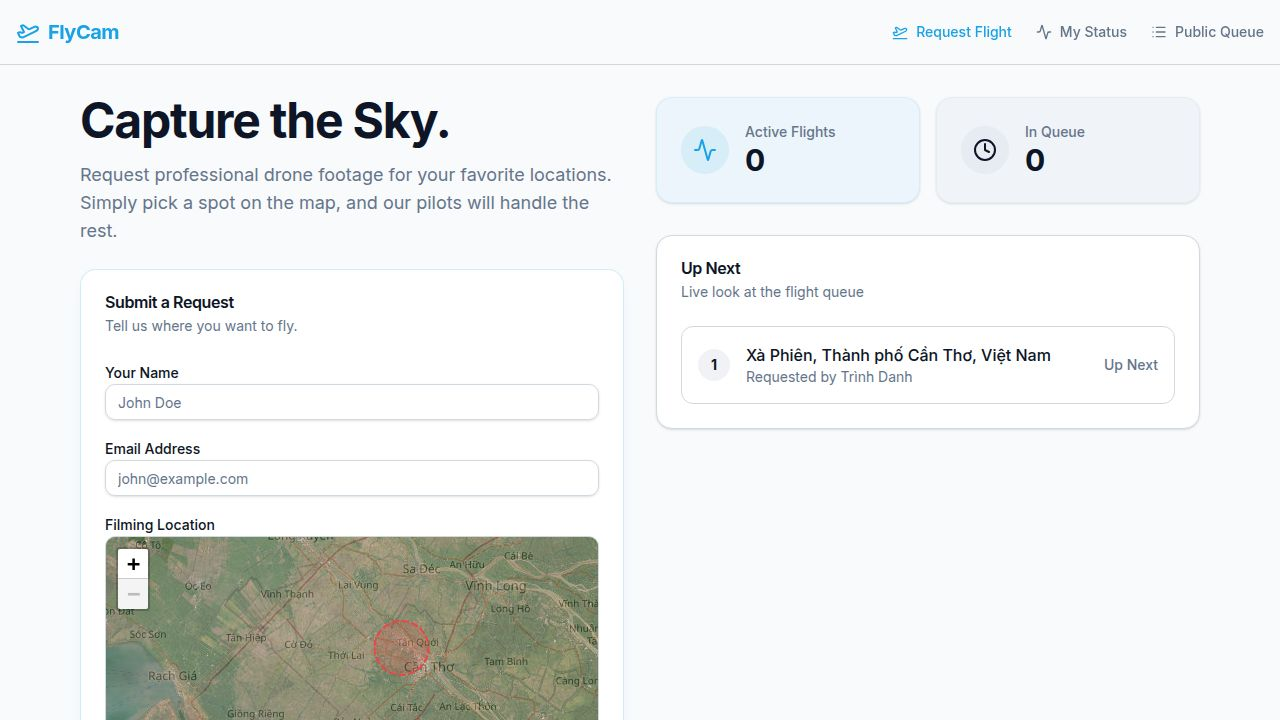
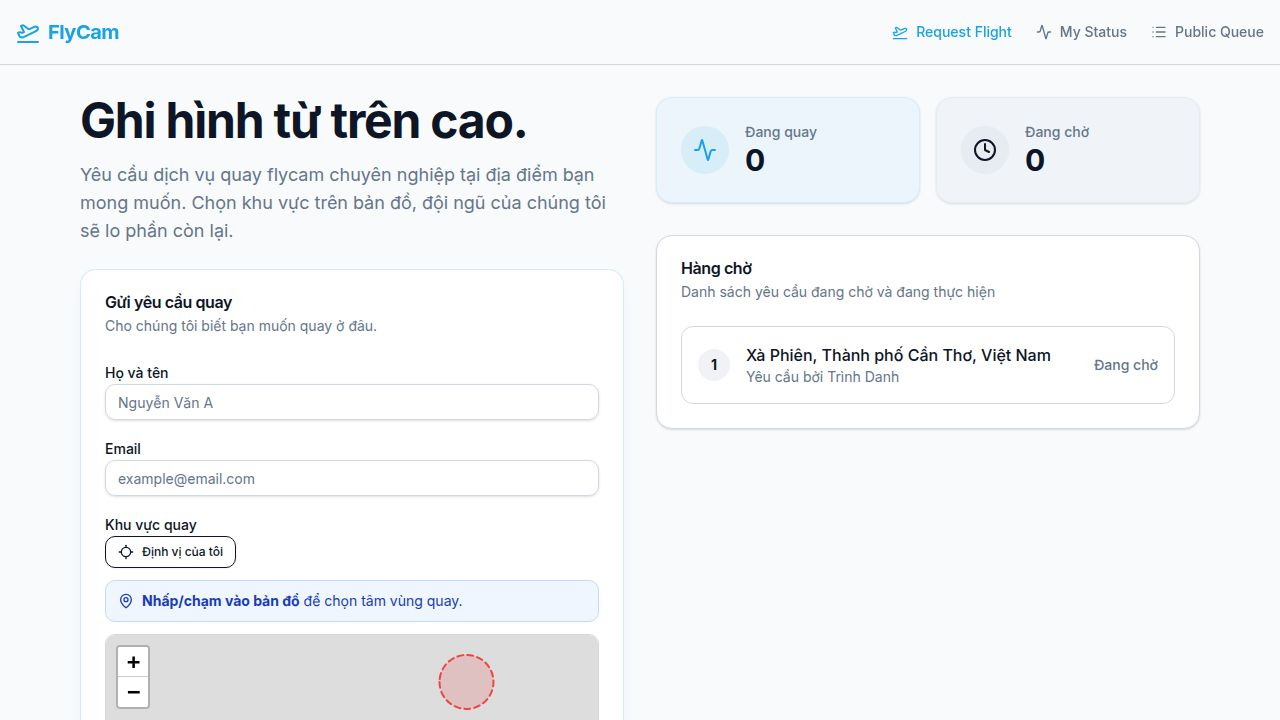
Improve video completion and status page for flycam requests
Enable admins to mark flycam requests as completed with a video link, regardless of current status, and translate the user status page to Vietnamese.

Replit-Commit-Author: Agent
Replit-Commit-Session-Id: 07d64656-bab1-4189-9e57-ca4c2a4d6bcf
Replit-Commit-Checkpoint-Type: full_checkpoint
Replit-Commit-Event-Id: f1d449a7-7100-40ee-8a39-189a90486f63
Replit-Commit-Screenshot-Url: https://storage.googleapis.com/screenshot-production-us-central1/d6c24f09-ec49-4d68-98d5-637557fc0790/07d64656-bab1-4189-9e57-ca4c2a4d6bcf/ilHwAvV
Replit-Helium-Checkpoint-Created: true

diff --git a/artifacts/flycam/src/pages/Status.tsx b/artifacts/flycam/src/pages/Status.tsx
@@ -5,6 +5,7 @@ import { Button } from "@/components/ui/button";
 import { Badge } from "@/components/ui/badge";
 import { PlaneTakeoff, Clock, CheckCircle, XCircle, MapPin, Calendar, Video, Plane } from "lucide-react";
 import { format } from "date-fns";
+import { vi } from "date-fns/locale";
 import { useEffect } from "react";
 import { Skeleton } from "@/components/ui/skeleton";
 
@@ -46,31 +47,33 @@ export default function Status() {
   if (!request) return null;
 
   const statusConfig = {
-    pending: { label: "Pending Review", icon: Clock, color: "bg-yellow-100 text-yellow-800 border-yellow-200" },
-    approved: { label: "Approved & Queued", icon: CheckCircle, color: "bg-blue-100 text-blue-800 border-blue-200" },
-    filming: { label: "Filming in Progress", icon: Plane, color: "bg-primary/20 text-primary border-primary/30" },
-    completed: { label: "Completed", icon: Video, color: "bg-green-100 text-green-800 border-green-200" },
-    rejected: { label: "Rejected", icon: XCircle, color: "bg-red-100 text-red-800 border-red-200" },
+    pending:   { label: "Chờ duyệt",    icon: Clock,        color: "bg-yellow-100 text-yellow-800 border-yellow-200" },
+    approved:  { label: "Đã duyệt & Xếp hàng", icon: CheckCircle, color: "bg-blue-100 text-blue-800 border-blue-200" },
+    filming:   { label: "Đang quay",    icon: Plane,        color: "bg-primary/20 text-primary border-primary/30" },
+    completed: { label: "Hoàn thành",   icon: Video,        color: "bg-green-100 text-green-800 border-green-200" },
+    rejected:  { label: "Từ chối",      icon: XCircle,      color: "bg-red-100 text-red-800 border-red-200" },
   };
 
-  const currentStatus = statusConfig[request.status];
+  const currentStatus = statusConfig[request.status as keyof typeof statusConfig] ?? statusConfig.pending;
   const StatusIcon = currentStatus.icon;
 
   return (
     <div className="container max-w-3xl mx-auto py-12 px-4 space-y-8">
       <div>
-        <h1 className="text-3xl font-bold tracking-tight mb-2">My Request Status</h1>
-        <p className="text-muted-foreground">Track the progress of your flycam footage.</p>
+        <h1 className="text-3xl font-bold tracking-tight mb-2">Trạng thái yêu cầu</h1>
+        <p className="text-muted-foreground">Theo dõi tiến trình yêu cầu quay flycam của bạn.</p>
       </div>
 
       <Card className="border-primary/20 shadow-md">
         <CardHeader className="pb-4">
-          <div className="flex justify-between items-start">
+          <div className="flex justify-between items-start gap-4 flex-wrap">
             <div>
               <CardTitle className="text-2xl mb-1">{request.locationName}</CardTitle>
-              <CardDescription>Submitted on {format(new Date(request.createdAt), "PPP")}</CardDescription>
+              <CardDescription>
+                Gửi lúc {format(new Date(request.createdAt), "dd/MM/yyyy", { locale: vi })}
+              </CardDescription>
             </div>
-            <Badge className={`${currentStatus.color} px-3 py-1 text-sm flex items-center gap-2 border`}>
+            <Badge className={`${currentStatus.color} px-3 py-1 text-sm flex items-center gap-2 border shrink-0`}>
               <StatusIcon className="w-4 h-4" />
               {currentStatus.label}
             </Badge>
@@ -80,50 +83,100 @@ export default function Status() {
           <div className="grid sm:grid-cols-2 gap-4">
             <div className="space-y-1 p-4 rounded-lg bg-muted/50 border">
               <p className="text-sm font-medium flex items-center gap-2 text-muted-foreground">
-                <MapPin className="w-4 h-4" /> Coordinates
+                <MapPin className="w-4 h-4" /> Tọa độ
               </p>
               <p className="font-mono text-sm">
                 {request.latitude.toFixed(6)}, {request.longitude.toFixed(6)}
               </p>
             </div>
-            
+
             <div className="space-y-1 p-4 rounded-lg bg-muted/50 border">
               <p className="text-sm font-medium flex items-center gap-2 text-muted-foreground">
-                <Calendar className="w-4 h-4" /> Scheduled Flight
+                <Calendar className="w-4 h-4" /> Lịch bay dự kiến
               </p>
               <p className="font-medium">
-                {request.scheduledAt ? format(new Date(request.scheduledAt), "PPP 'at' p") : "Not scheduled yet"}
+                {request.scheduledAt
+                  ? format(new Date(request.scheduledAt), "dd/MM/yyyy 'lúc' HH:mm", { locale: vi })
+                  : "Chưa có lịch"}
               </p>
             </div>
           </div>
 
-          {request.status === 'completed' && request.videoUrl && (
-            <div className="p-6 rounded-lg bg-primary/5 border border-primary/20 flex flex-col items-center justify-center text-center space-y-4">
-              <div className="p-4 bg-primary/10 rounded-full">
-                <Video className="w-8 h-8 text-primary" />
+          {/* Pending: waiting */}
+          {request.status === "pending" && (
+            <div className="p-6 rounded-lg bg-yellow-50 border border-yellow-200 text-center space-y-3">
+              <Clock className="w-10 h-10 text-yellow-500 mx-auto" />
+              <div>
+                <h3 className="font-semibold text-lg">Đang chờ duyệt</h3>
+                <p className="text-muted-foreground text-sm">Yêu cầu của bạn đang được xem xét. Chúng tôi sẽ phản hồi sớm nhất có thể.</p>
+              </div>
+            </div>
+          )}
+
+          {/* Approved: queued */}
+          {request.status === "approved" && (
+            <div className="p-6 rounded-lg bg-blue-50 border border-blue-200 text-center space-y-3">
+              <CheckCircle className="w-10 h-10 text-blue-500 mx-auto" />
+              <div>
+                <h3 className="font-semibold text-lg">Yêu cầu đã được chấp thuận!</h3>
+                <p className="text-muted-foreground text-sm">
+                  Yêu cầu của bạn đã được xếp vào hàng chờ.
+                  {request.queuePosition ? ` Vị trí hàng chờ: #${request.queuePosition}.` : ""} Chúng tôi sẽ liên hệ khi có lịch bay cụ thể.
+                </p>
+              </div>
+            </div>
+          )}
+
+          {/* Filming: in progress */}
+          {request.status === "filming" && (
+            <div className="p-6 rounded-lg bg-primary/5 border border-primary/20 text-center space-y-4">
+              <PlaneTakeoff className="w-12 h-12 text-primary mx-auto animate-pulse" />
+              <div>
+                <h3 className="font-semibold text-lg text-primary">Đang thực hiện quay!</h3>
+                <p className="text-muted-foreground text-sm">Đội bay đang ghi hình khu vực của bạn. Video sẽ sớm được gửi đến.</p>
+              </div>
+            </div>
+          )}
+
+          {/* Rejected */}
+          {request.status === "rejected" && (
+            <div className="p-6 rounded-lg bg-red-50 border border-red-200 text-center space-y-3">
+              <XCircle className="w-10 h-10 text-red-500 mx-auto" />
+              <div>
+                <h3 className="font-semibold text-lg">Yêu cầu bị từ chối</h3>
+                <p className="text-muted-foreground text-sm">Rất tiếc, yêu cầu của bạn không được chấp thuận. Bạn có thể gửi yêu cầu mới.</p>
+              </div>
+              <Button variant="outline" onClick={() => setLocation("/")}>Gửi yêu cầu mới</Button>
+            </div>
+          )}
+
+          {/* Completed: video ready */}
+          {request.status === "completed" && request.videoUrl && (
+            <div className="p-6 rounded-lg bg-green-50 border border-green-200 flex flex-col items-center justify-center text-center space-y-4">
+              <div className="p-4 bg-green-100 rounded-full">
+                <Video className="w-8 h-8 text-green-600" />
               </div>
               <div>
-                <h3 className="font-semibold text-lg">Your Footage is Ready!</h3>
-                <p className="text-muted-foreground text-sm">The pilot has uploaded your requested aerial video.</p>
+                <h3 className="font-semibold text-lg">Video của bạn đã sẵn sàng!</h3>
+                <p className="text-muted-foreground text-sm">Đội bay đã hoàn thành và tải lên video flycam theo yêu cầu.</p>
               </div>
-              <Button asChild size="lg" className="w-full sm:w-auto">
+              <Button asChild size="lg" className="w-full sm:w-auto bg-green-600 hover:bg-green-700">
                 <a href={request.videoUrl} target="_blank" rel="noopener noreferrer">
-                  Watch Video
+                  <Video className="w-4 h-4 mr-2" /> Xem video ngay
                 </a>
               </Button>
             </div>
           )}
 
-          {request.status === 'filming' && (
-            <div className="p-6 rounded-lg bg-primary/5 border border-primary/20 text-center space-y-4">
-              <PlaneTakeoff className="w-12 h-12 text-primary mx-auto animate-pulse" />
+          {request.status === "completed" && !request.videoUrl && (
+            <div className="p-6 rounded-lg bg-green-50 border border-green-200 text-center space-y-3">
+              <CheckCircle className="w-10 h-10 text-green-600 mx-auto" />
               <div>
-                <h3 className="font-semibold text-lg text-primary">Pilot is airborne!</h3>
-                <p className="text-muted-foreground text-sm">We are currently capturing your location.</p>
+                <h3 className="font-semibold text-lg">Hoàn thành</h3>
+                <p className="text-muted-foreground text-sm">Yêu cầu đã được hoàn thành.</p>
               </div>
             </div>
           )}
-
         </CardContent>
       </Card>
     </div>

diff --git a/artifacts/flycam/src/pages/Admin.tsx b/artifacts/flycam/src/pages/Admin.tsx
@@ -340,10 +340,10 @@ function AdminPanel({ onLogout }: { onLogout: () => void }) {
                               </Button>
                             </>
                           )}
-                          {req.status === "approved" && (
+                          {(req.status === "approved" || req.status === "filming") && (
                             <ScheduleDialog onSchedule={(date) => handleSchedule(req.id, date)} />
                           )}
-                          {req.status === "filming" && (
+                          {(req.status === "approved" || req.status === "filming") && (
                             <CompleteDialog onComplete={(url) => handleComplete(req.id, url)} />
                           )}
                         </div>
